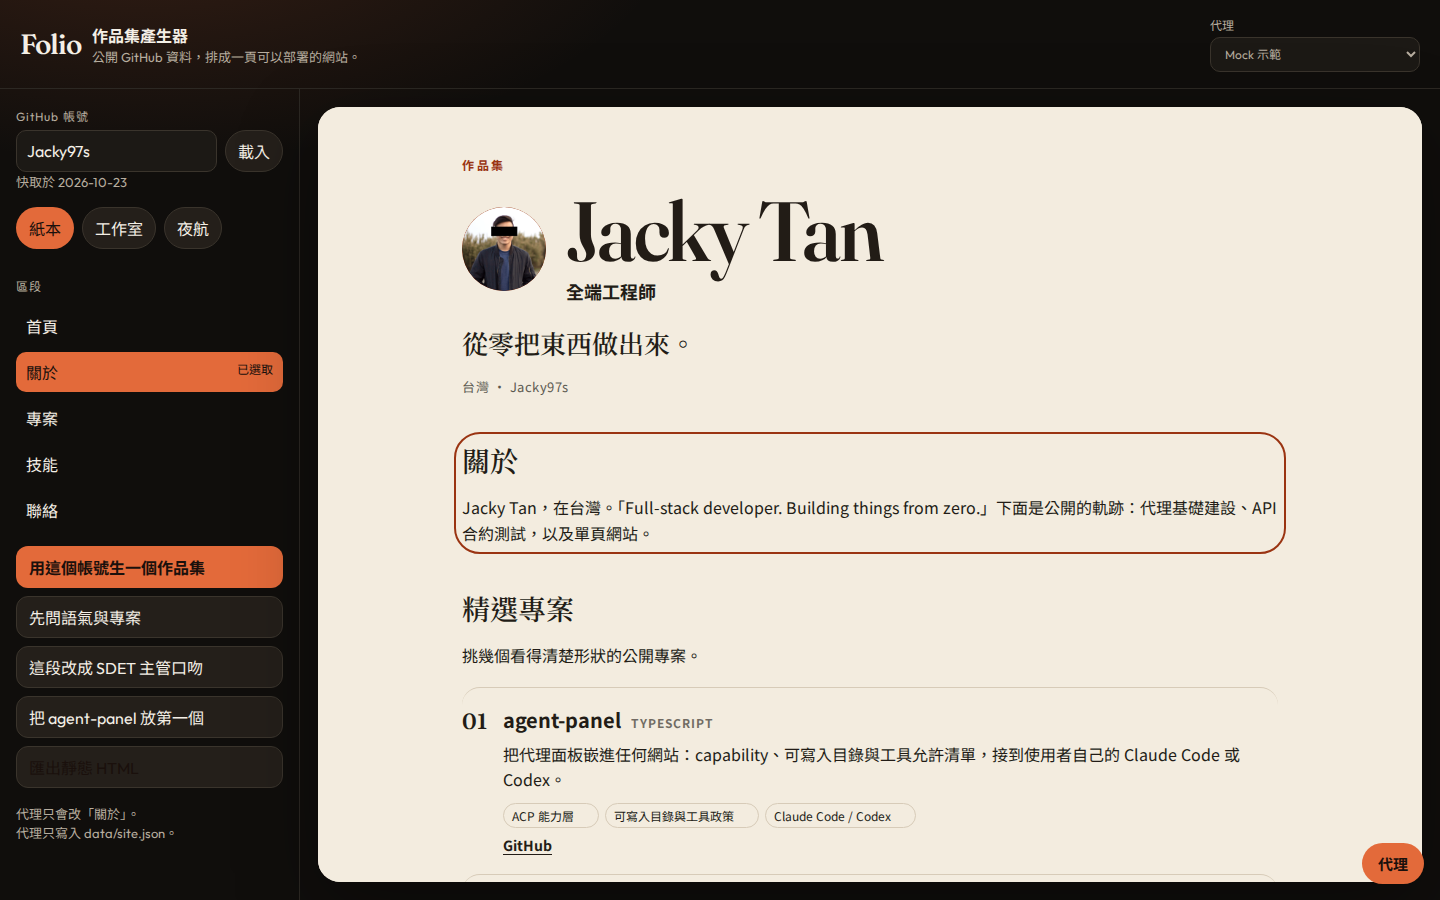
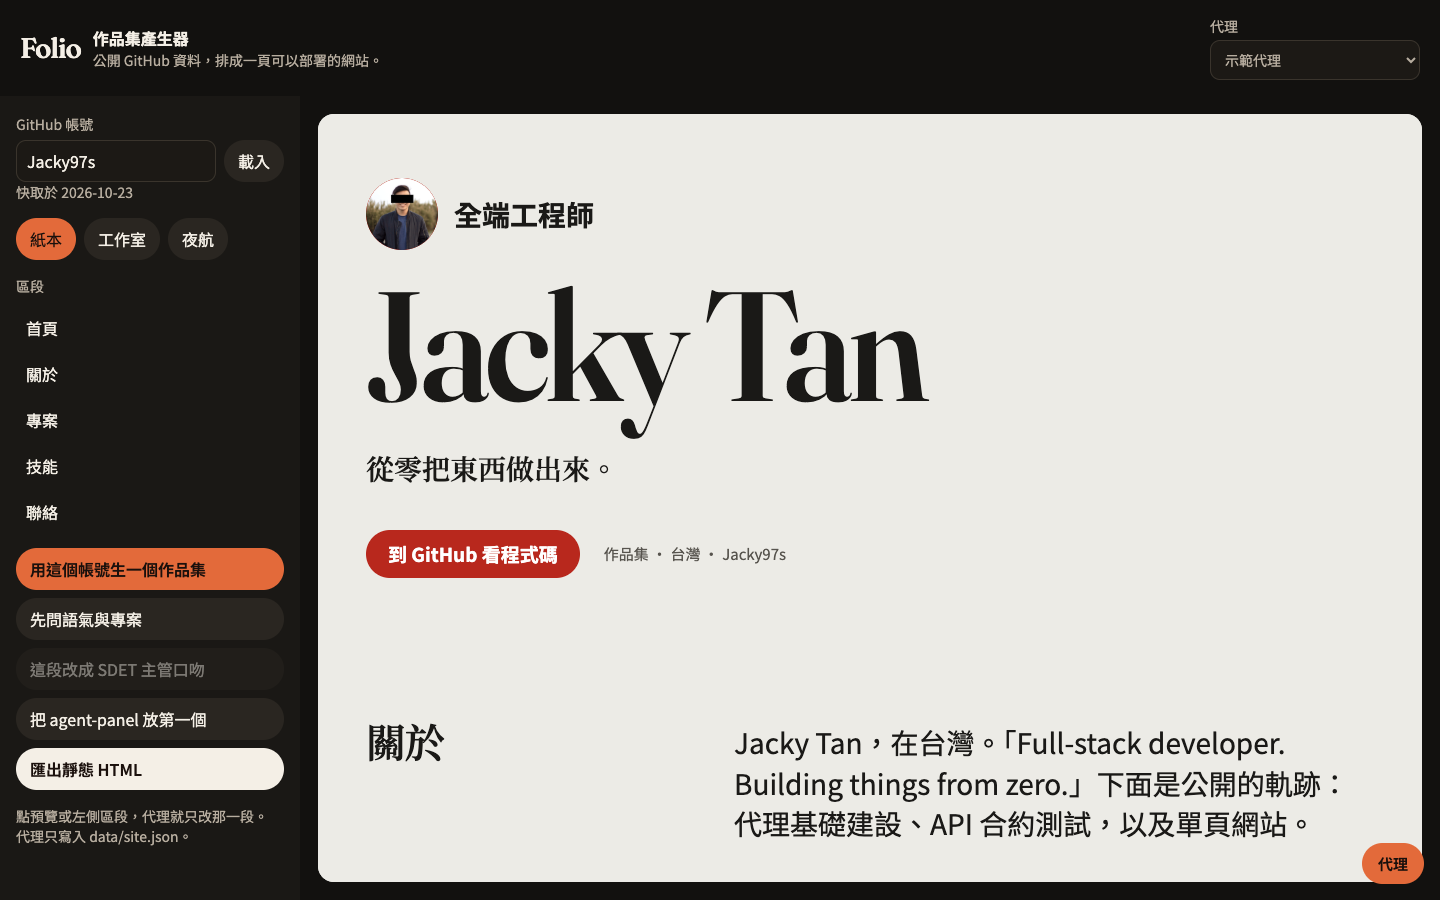
Run the Playwright smoke test as part of pnpm test
pnpm test used to stop at the unit tests, so the browser flow could break
without anyone noticing. README screenshots and copy follow the restyle, and
the framework gaps list now names the panel's untranslated strings.

diff --git a/README.md b/README.md
@@ -17,7 +17,9 @@
 5. 主題可以在「紙本」「工作室」「夜航」之間換，不必經過代理。
 6. 「匯出靜態 HTML」寫入 `dist-site/index.html`，那個檔案可以單獨部署。
 
-右下角的「代理」會打開面板，預設是關著的。面板裡可以切換 Mock 示範、Claude Code、Codex。
+右下角的「代理」會打開面板，預設是關著的。面板上方可以切換示範代理、Claude Code、Codex。
+
+![代理面板只改選取的區段](docs/panel.png)
 
 ![訂閱說明](docs/subscription.png)
 
@@ -58,7 +60,7 @@ git submodule update --init
 
 瀏覽器開 http://127.0.0.1:5173 。
 
-### Mock 示範
+### 示範代理
 
 預設就是這一個。它不呼叫模型，會讀 `data/github/` 的快取，寫出合法的 `data/site.json`，也會發出提問卡與寫入許可卡。測試走這條路。
 
@@ -80,23 +82,27 @@ npx -y @agentclientprotocol/claude-agent-acp
 npx -y @agentclientprotocol/codex-acp
 ```
 
-選單的選擇寫在 `data/runtime-agent.json`（不進版控）。刪掉那個檔案就回到 Mock。
+選單的選擇寫在 `data/runtime-agent.json`（不進版控）。刪掉那個檔案就回到示範代理。
 
 ## 測試
 
 ```bash
+pnpm exec playwright install chromium   # 第一次跑 e2e 前
 pnpm test
-pnpm test:e2e
 ```
 
-`pnpm test` 是單元測試，含一輪真正走過 ACP 的示範 peer。`pnpm test:e2e` 用 Playwright 打開頁面，以 Mock peer 改一段關於文字，並回答一張提問卡，確認預覽跟著變。
+`pnpm test` 先跑單元測試，再跑 Playwright。單元測試含一輪真正走過 ACP 的示範 peer。Playwright 會開一個用 `e2e/.data` 副本的開發伺服器，用示範代理改一段「關於」，再回答一張提問卡，確認預覽跟著變。只想跑其中一半時用 `pnpm test:unit` 或 `pnpm test:e2e`。
+
+手機版：
+
+![手機版](docs/mobile.png)
 
 ## 框架限制
 
 這些是 agent-panel 目前沒有、這個 demo 在外面補上的行為：
 
 - 一個開發伺服器只綁一個 ACP 行程。切換代理會重啟 Vite。
-- 面板內建按鈕是英文。浮動按鈕用 CSS 顯示成「代理」。
+- 面板內建文字是英文，例如 Send、Close、`end_turn`、`completed`、「Send a task for portfolio.」，也沒有提供翻譯參數。浮動按鈕用 CSS 顯示成「代理」，但它的無障礙名稱仍是 Agent。
 - 從瀏覽器送進能力的 context 只留字串、數字與布林，巢狀物件會被丟掉，單一字串大約到 4000 字。所以選取內容是字串。
 - 可寫入目錄同時管讀與寫。要讀快取，根目錄就得包含整個 `data/`；提示詞再限制只能寫 `site.json`。
 - 內建的 `mockAgentPath()` 只認得範例筆記。這裡另有一個會寫作品集的示範 peer。
